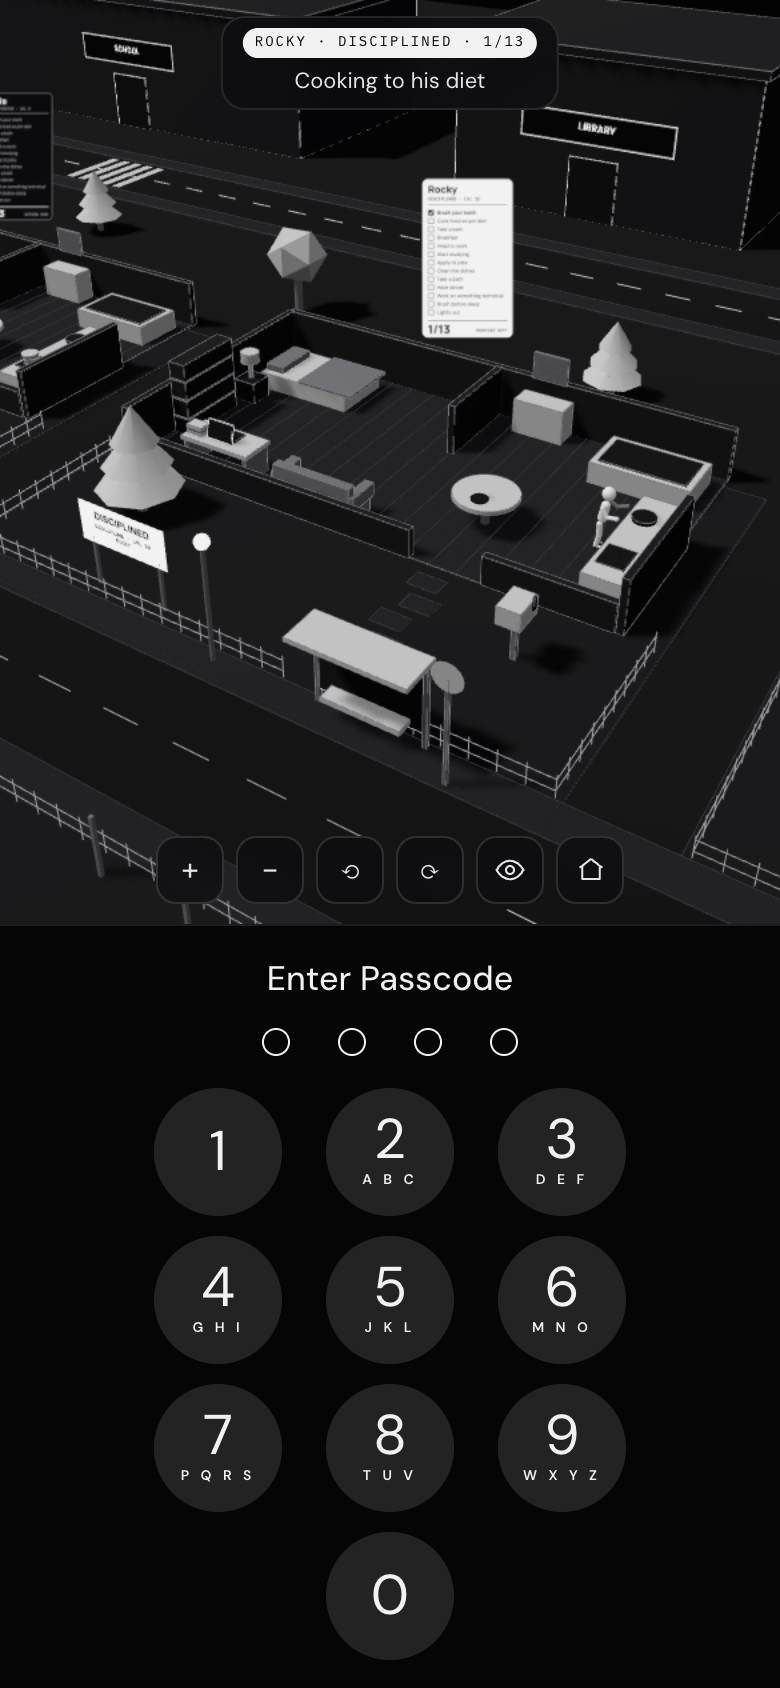
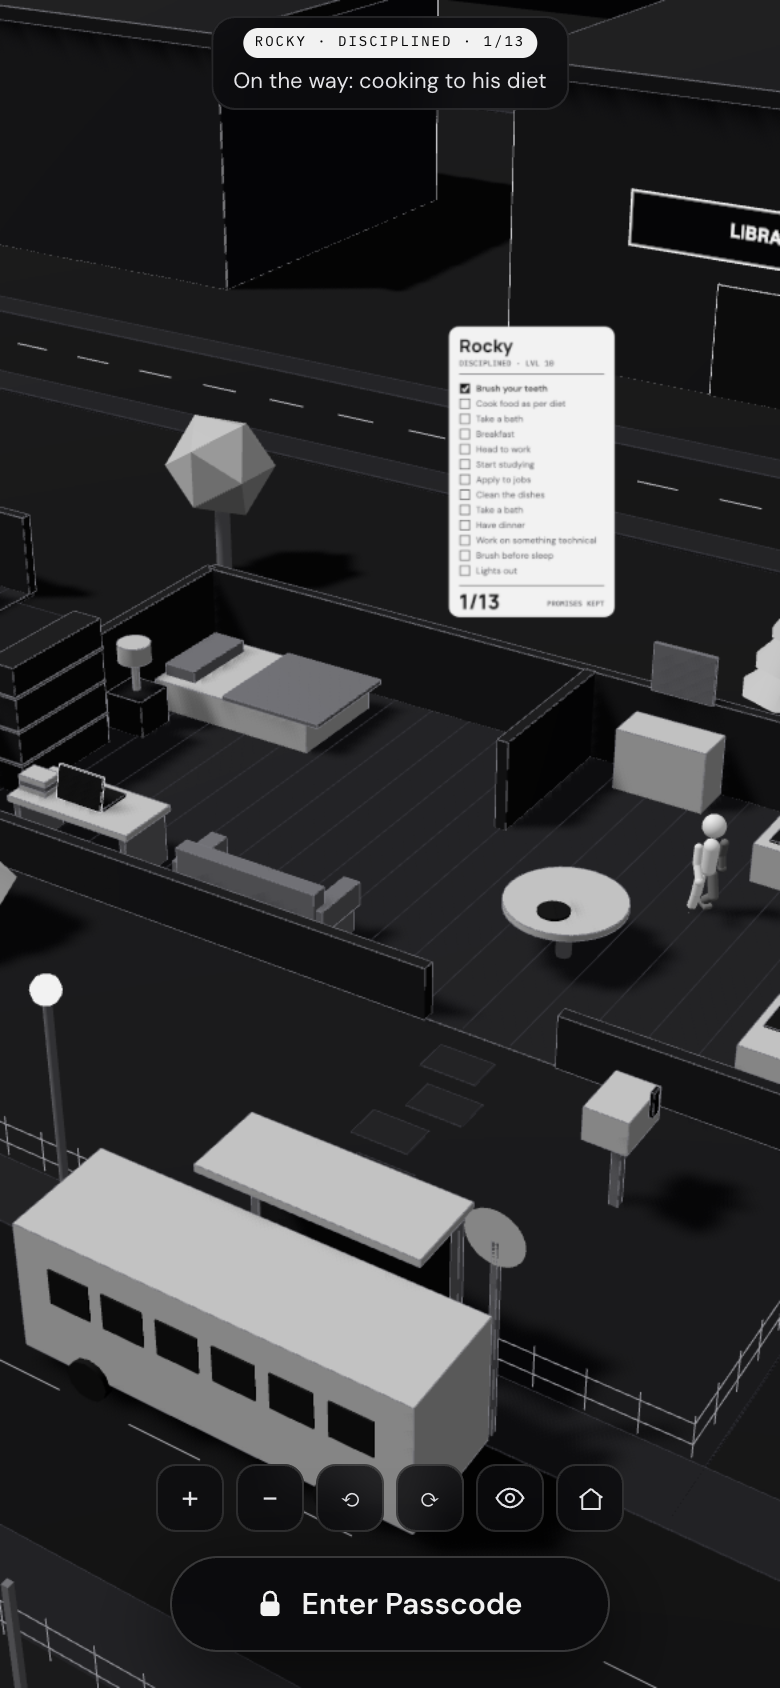
feat: slide-up passcode keypad on phones and tablets (#16)
## What
On phones and tablets the lock screen used to show the keypad all the
time, taking half the screen. Now:

- **The 3D neighbourhood fills the screen.** There's an **Enter
Passcode** pill at the bottom, and the camera controls sit just above
it, so the city is free to play with.
- **Tap the pill** and the keypad **slides up** as a sheet, with a
handle, title, dots, keys and account links.
- **To hide it:** tap the city (a transparent layer behind the sheet),
tap or **swipe down** the handle, or press **Esc**. It also hides itself
after **25 s** without a tap, clearing any half-typed code.
- **A wrong code keeps the sheet open** with "Incorrect passcode."
- **Hardware keyboards** (an iPad with a keyboard): typing a digit opens
the sheet.
- **Other states use the same compact dock:** sign-in shows **Continue
with Google** as the pill, loading and error show a status pill, and
create-passcode uses the same pill and sheet.
- Reduced motion turns off the slide animation.
- Desktop is unchanged.
- README phone screenshot and description updated.

## Testing
Headless Chrome, local-only mode, at phone (390×844) and tablet
(1024×1366) sizes:
- [x] Closed: pill shown, no keypad, and the 3D canvas fills the full
height (844 / 1366 px)
- [x] Tap pill → sheet with keys
- [x] Tap city → closed again
- [x] Wrong code → sheet stays open, "Incorrect passcode."
- [x] 1005 → unlocks
- [x] No console errors; `pnpm check` passes

diff --git a/src/LockScreen.tsx b/src/LockScreen.tsx
@@ -174,6 +174,10 @@ function LockScreen({ account, onUnlock }: { account: Account; onUnlock: () => v
   /** "Forgot passcode?" after confirming with Google: set a new one. */
   const [resetting, setResetting] = useState(false);
   const inputRef = useRef<HTMLInputElement>(null);
+  /** Phones and tablets: the keypad stays tucked away so the city has the screen, and slides up on demand. */
+  const [sheet, setSheet] = useState<"closed" | "open" | "closing">("closed");
+  const [activity, setActivity] = useState(0);
+  const swipeFrom = useRef<number | null>(null);
   const waiting = lockedUntil > now;
   const secondsLeft = Math.ceil((lockedUntil - now) / 1000);
   const mode = modeOf(account, resetting);
@@ -275,11 +279,30 @@ function LockScreen({ account, onUnlock }: { account: Account; onUnlock: () => v
     [account, busy, firstCode, mode, shake, succeed, success, user, wrong],
   );
 
+  const openSheet = useCallback(() => {
+    setSheet("open");
+    setActivity((n) => n + 1);
+  }, []);
+  const closeSheet = useCallback(() => {
+    setSheet((state) => (state === "open" ? "closing" : state));
+    window.setTimeout(() => {
+      setSheet((state) => (state === "closing" ? "closed" : state));
+      setCode("");
+    }, 220);
+  }, []);
+  // Left open with nothing happening, the keypad slides away again.
+  useEffect(() => {
+    if (sheet !== "open" || success || busy) return;
+    const id = window.setTimeout(closeSheet, 25_000);
+    return () => window.clearTimeout(id);
+  }, [sheet, activity, success, busy, closeSheet]);
+
   const press = useCallback(
     (digit: string) => {
       if (!typing || waiting || success || busy || code.length >= PASSCODE_LENGTH) return;
       sfx.key();
       setPulse((value) => value + 1);
+      setActivity((n) => n + 1);
       const next = code + digit;
       setCode(next);
       if (next.length === PASSCODE_LENGTH) window.setTimeout(() => submit(next), 150);
@@ -302,12 +325,15 @@ function LockScreen({ account, onUnlock }: { account: Account; onUnlock: () => v
         }
         return;
       }
-      if (/^\d$/.test(e.key)) press(e.key);
-      else if (e.key === "Backspace") erase();
+      if (/^\d$/.test(e.key)) {
+        if (sheet === "closed") setSheet("open");
+        press(e.key);
+      } else if (e.key === "Backspace") erase();
+      else if (e.key === "Escape") closeSheet();
     };
     window.addEventListener("keydown", onKey);
     return () => window.removeEventListener("keydown", onKey);
-  }, [device, erase, press, success, typing, waiting]);
+  }, [device, erase, press, success, typing, waiting, sheet, closeSheet]);
 
   async function signIn() {
     setBusy(true);
@@ -424,6 +450,9 @@ function LockScreen({ account, onUnlock }: { account: Account; onUnlock: () => v
       aria-label={`Locked. ${title}.`}
     >
       <LockScene signals={{ pulse, error, success }} lowDetail={device === "phone"} />
+      {device !== "desktop" && sheet === "open" && !success && (
+        <button type="button" className="home-backdrop" aria-label="Hide keypad" onClick={closeSheet} />
+      )}
 
       <div className="home-panel">
         {device === "desktop" ? (
@@ -510,12 +539,47 @@ function LockScreen({ account, onUnlock }: { account: Account; onUnlock: () => v
             </ul>
           </form>
         ) : (
-          <div className="home-pad">
-            <span className="lock-title" aria-live="polite">
-              {title}
-            </span>
-            {typing ? (
-              <>
+          <>
+            {sheet === "closed" ? (
+              <div className="home-dock">
+                {typing ? (
+                  <button type="button" className="home-pill" onClick={openSheet} aria-expanded="false">
+                    <svg width="12" height="14" viewBox="0 0 18 22" fill="none" aria-hidden="true">
+                      <path
+                        d="M4.5 9V6a4.5 4.5 0 0 1 9 0v3"
+                        stroke="currentColor"
+                        strokeWidth="2"
+                        strokeLinecap="round"
+                      />
+                      <rect x="1.5" y="9" width="15" height="11.5" rx="3" fill="currentColor" />
+                    </svg>
+                    {title}
+                  </button>
+                ) : mode === "signin" ? (
+                  googleButton
+                ) : (
+                  <span className="home-pill home-pill--status">{title}</span>
+                )}
+                {hint && (!typing || message || waiting) && <span className="lock-hint lock-hint--pad">{hint}</span>}
+              </div>
+            ) : (
+              <div className={`home-pad home-sheet ${sheet === "closing" ? "closing" : ""}`}>
+                <button
+                  type="button"
+                  className="home-sheet-handle"
+                  aria-label="Hide keypad"
+                  onClick={closeSheet}
+                  onPointerDown={(e) => (swipeFrom.current = e.clientY)}
+                  onPointerUp={(e) => {
+                    if (swipeFrom.current !== null && e.clientY - swipeFrom.current > 40) closeSheet();
+                    swipeFrom.current = null;
+                  }}
+                >
+                  <i />
+                </button>
+                <span className="lock-title" aria-live="polite">
+                  {title}
+                </span>
                 <div
                   className="lock-dots"
                   data-shake={shaking}
@@ -553,16 +617,10 @@ function LockScreen({ account, onUnlock }: { account: Account; onUnlock: () => v
                     </svg>
                   </button>
                 </div>
-              </>
-            ) : (
-              <div className="lock-pad-message">
-                <MonoLogo className="mono-logo lock-pad-logo" />
-                <span className="lock-hint lock-hint--pad">{hint}</span>
-                {mode === "signin" && googleButton}
+                {accountLinks}
               </div>
             )}
-            {accountLinks}
-          </div>
+          </>
         )}
       </div>
     </div>

diff --git a/src/index.css b/src/index.css
@@ -3956,3 +3956,120 @@ kbd {
 .cal-page {
   padding-top: calc(34px + env(safe-area-inset-top, 0px));
 }
+
+/* ---------- Phones and tablets: the city gets the screen, the keypad slides up on demand ---------- */
+.home-lock--phone .home-panel,
+.home-lock--tablet .home-panel {
+  position: absolute;
+  left: 0;
+  right: 0;
+  bottom: 0;
+  z-index: 3;
+  border-top: 0;
+  background: transparent;
+  pointer-events: none;
+}
+.home-lock--phone .home-panel > *,
+.home-lock--tablet .home-panel > * {
+  pointer-events: auto;
+}
+.home-dock {
+  display: flex;
+  flex-direction: column;
+  align-items: center;
+  gap: 8px;
+  padding: 0 16px max(18px, calc(env(safe-area-inset-bottom) + 8px));
+}
+.home-dock .lock-hint--pad {
+  margin-top: 0;
+  padding: 4px 10px;
+  border-radius: 8px;
+  background: #0a0a0cc0;
+}
+.home-pill {
+  display: inline-flex;
+  align-items: center;
+  justify-content: center;
+  gap: 10px;
+  min-width: 220px;
+  height: 48px;
+  padding: 0 24px;
+  border-radius: 999px;
+  background: #0a0a0cd8;
+  border: 1px solid #ffffff2e;
+  backdrop-filter: blur(14px);
+  -webkit-backdrop-filter: blur(14px);
+  box-shadow: 0 12px 40px #000000a0;
+  color: #f2f2f2;
+  font-size: 15px;
+  font-weight: 600;
+  letter-spacing: -0.1px;
+}
+.home-pill:active {
+  transform: scale(0.97);
+}
+.home-pill--status {
+  font-weight: 450;
+  color: #c4c4ca;
+}
+.home-dock .lock-google {
+  height: 48px;
+  box-shadow: 0 12px 40px #000000a0;
+}
+.home-sheet {
+  margin: 0 auto;
+  max-width: 560px;
+  border-radius: 24px 24px 0 0;
+  background: #050506f2;
+  border: 1px solid #ffffff1f;
+  border-bottom: 0;
+  backdrop-filter: blur(18px);
+  -webkit-backdrop-filter: blur(18px);
+  box-shadow: 0 -20px 60px #000000b0;
+  padding-top: 4px;
+  animation: sheet-up 0.28s cubic-bezier(0.2, 0.8, 0.2, 1);
+}
+.home-sheet.closing {
+  animation: sheet-down 0.22s ease-in forwards;
+}
+@keyframes sheet-up {
+  from {
+    transform: translateY(100%);
+  }
+}
+@keyframes sheet-down {
+  to {
+    transform: translateY(100%);
+  }
+}
+.home-sheet-handle {
+  display: grid;
+  place-items: center;
+  width: 100%;
+  height: 26px;
+  touch-action: none;
+}
+.home-sheet-handle i {
+  width: 40px;
+  height: 5px;
+  border-radius: 3px;
+  background: #ffffff40;
+}
+.home-backdrop {
+  position: absolute;
+  inset: 0;
+  z-index: 2;
+  background: linear-gradient(to top, #000000a0, transparent 70%);
+  animation: cal-in 0.25s ease;
+}
+/* The phone's camera buttons sit just above the passcode pill. */
+.home-lock--phone .home-camera {
+  bottom: max(78px, calc(env(safe-area-inset-bottom) + 68px));
+}
+@media (prefers-reduced-motion: reduce) {
+  .home-sheet,
+  .home-sheet.closing,
+  .home-backdrop {
+    animation: none;
+  }
+}

diff --git a/README.md b/README.md
@@ -35,7 +35,7 @@ Around them is a full city. It has a school, a library, an office tower, a café
 - **Click** a house or building to fly to it. Use **← Back to Rocky** or **R** to come home.
 - **Drag** to orbit, **scroll** or pinch to zoom, **right-drag** to pan, **Q / E** to rotate, **F** to follow.
 - **WASD** walks Rocky and **Space** jumps. He goes back to his routine after a few seconds.
-- On computers the passcode panel is Mac-style. Tablets and phones get an iPad- or iPhone-style keypad.
+- On computers the passcode panel is Mac-style. On phones and tablets the city gets the whole screen: tap **Enter Passcode** and an iPhone-style keypad slides up. Tap the city or swipe the handle down to hide it again.
 
 <p align="center"><img src="docs/screenshots/phone-lock.png" width="300" alt="The phone lock screen"></p>
 

diff --git a/CHANGELOG.md b/CHANGELOG.md
@@ -34,6 +34,7 @@ All notable changes to MonoChrome are recorded here. The format follows [Keep a 
 
 ### Changed
 
+- **Phones and tablets:** the lock screen no longer shows the keypad all the time. The 3D city fills the screen with an **Enter Passcode** pill, and the keypad slides up when you tap it. Tap the city, swipe down or press Esc to hide it. It also hides itself after 25 seconds without a tap.
 - New accounts start from a neutral **sample routine** (14 tasks and 2 vows that show off steps, a counter, bonus tasks and a timed lights-out). Personal routines live only in each user's account.
 - The help panel lists your own vows instead of fixed ones.
 - The lock screen's residents use their own fixed demo checklist instead of the user's routine.
